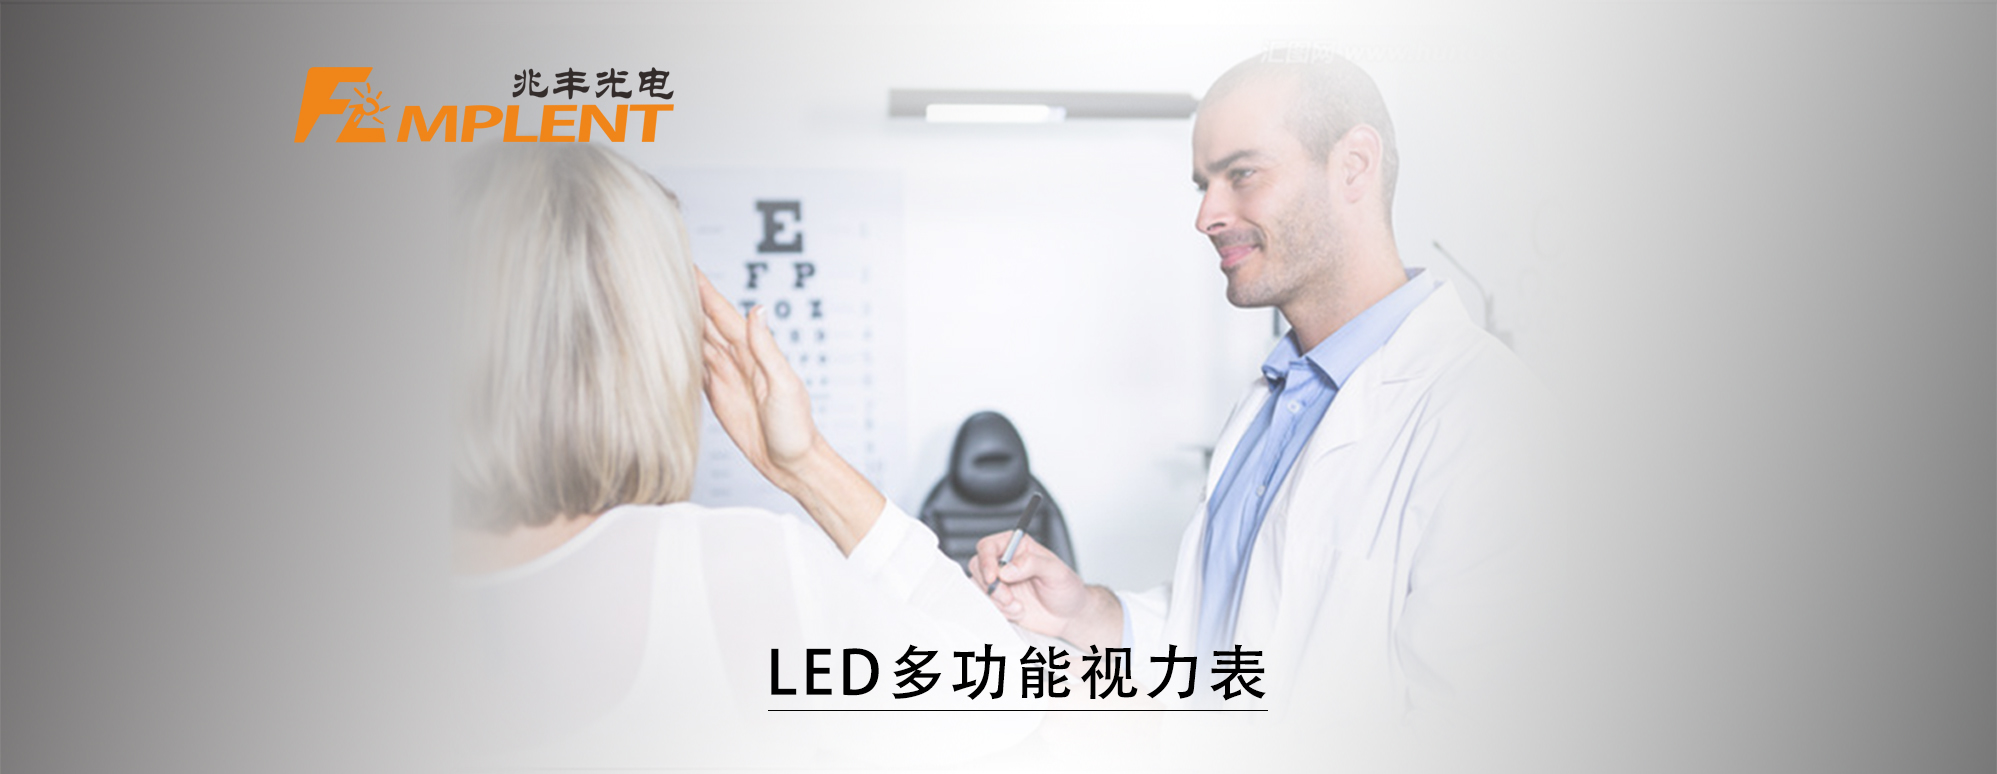
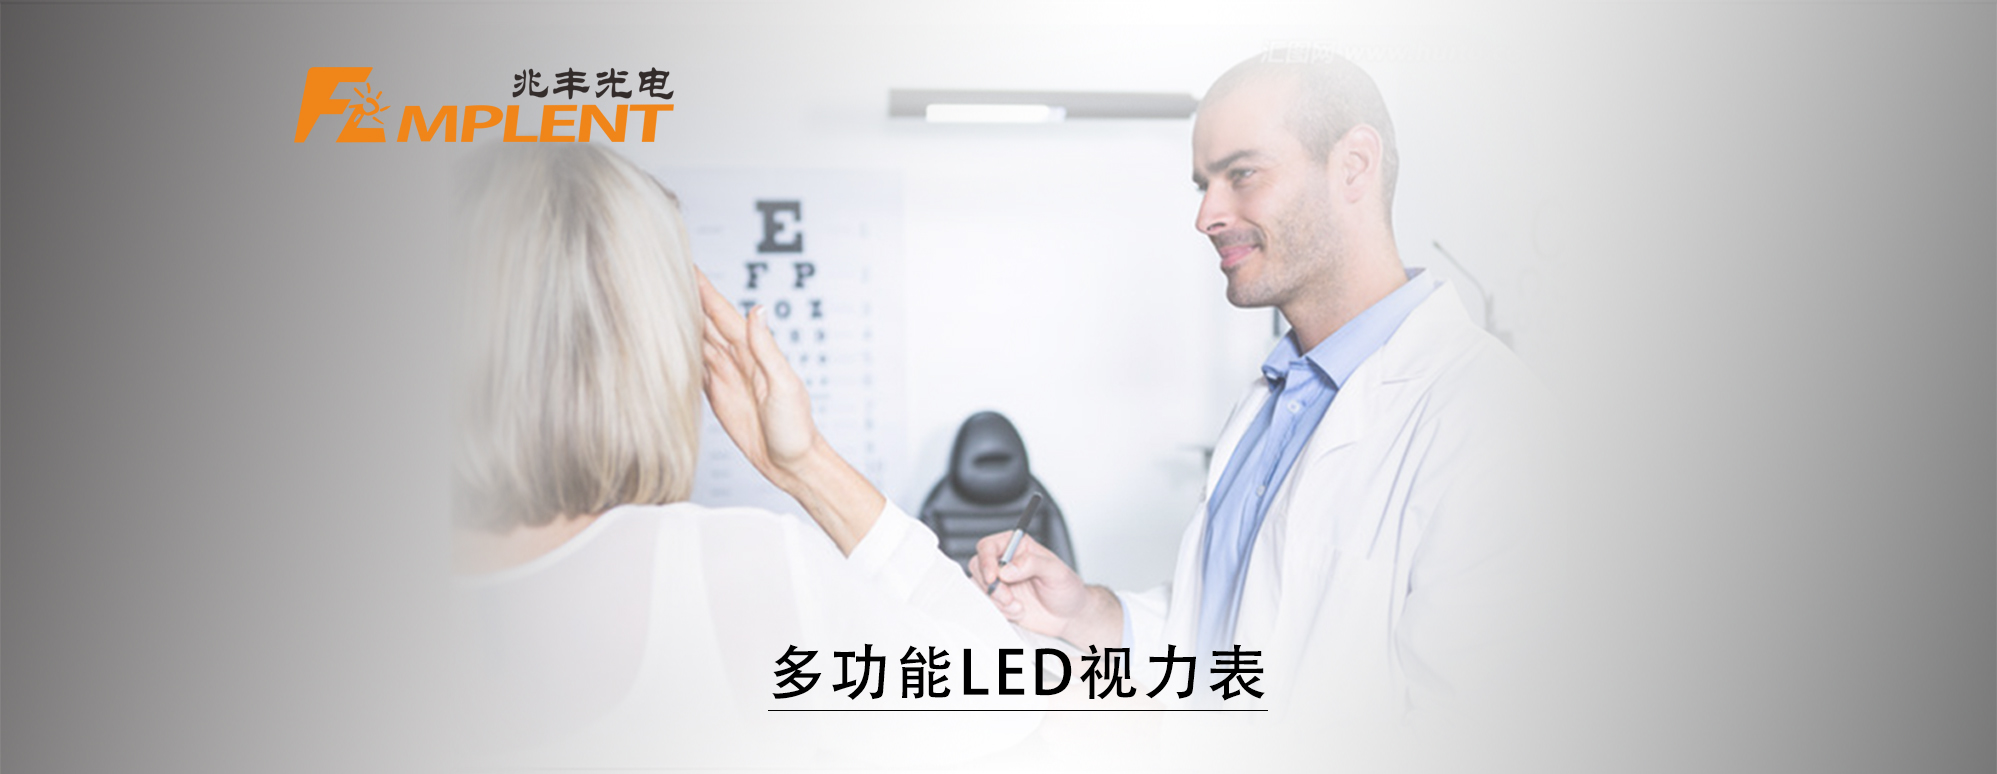
详情页图片更换

Changed region(s): [[0.3726, 0.8372, 0.6209, 0.8992]]

diff --git a/index.html b/index.html
@@ -1,4 +1,4 @@
-<!DOCTYPE html>
+<!DOCTYPE html>
 <html lang="en">
   <head>
     <meta charset="utf-8">
@@ -22,6 +22,6 @@
     	ie真是让人头疼ie真是让人头疼ie真是让人头疼ie真是让人头疼ie真是让人头疼ie真是让人头疼ie真是让人头疼ie真是让人头疼
     	ie真是让人头疼ie真是让人头疼ie真是让人头疼ie真是让人头疼ie真是让人头疼ie真是让人头疼ie真是让人头疼ie真是让人头疼
     </div>
-    <script src="/dist/build.js"></script>
+    <script src="/dist/build.js?v=2"></script>
   </body>
 </html>
